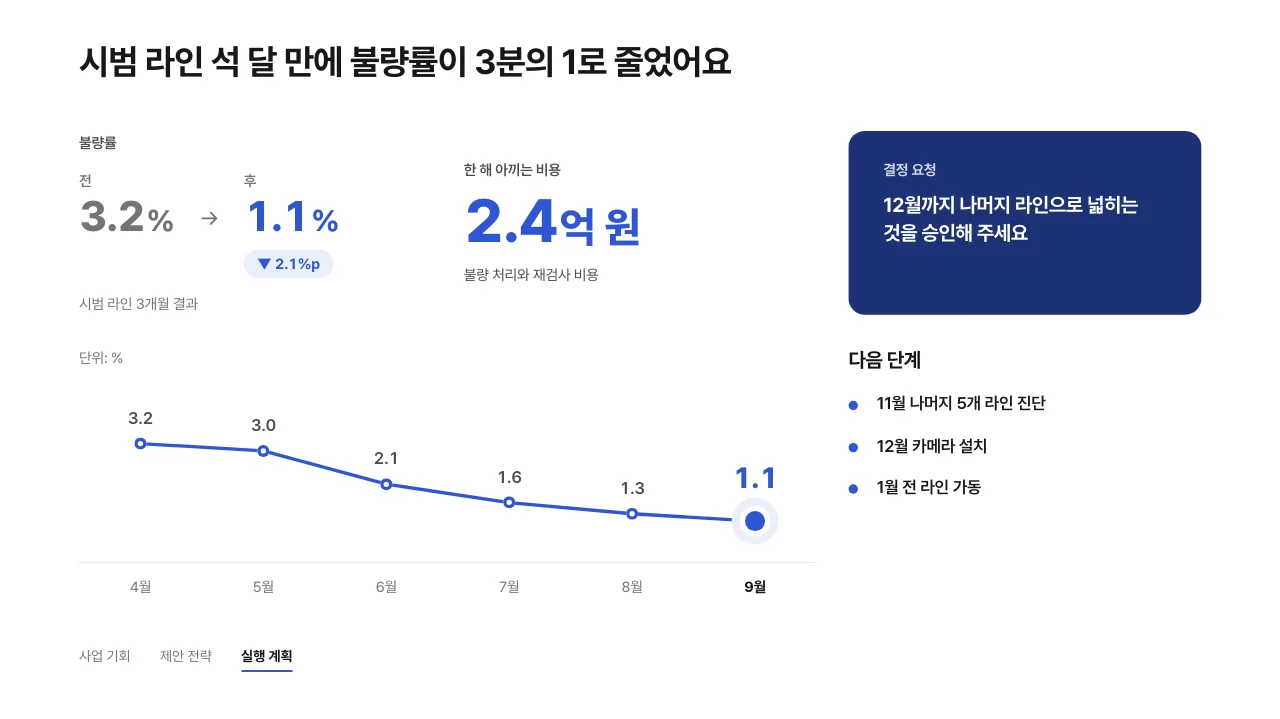
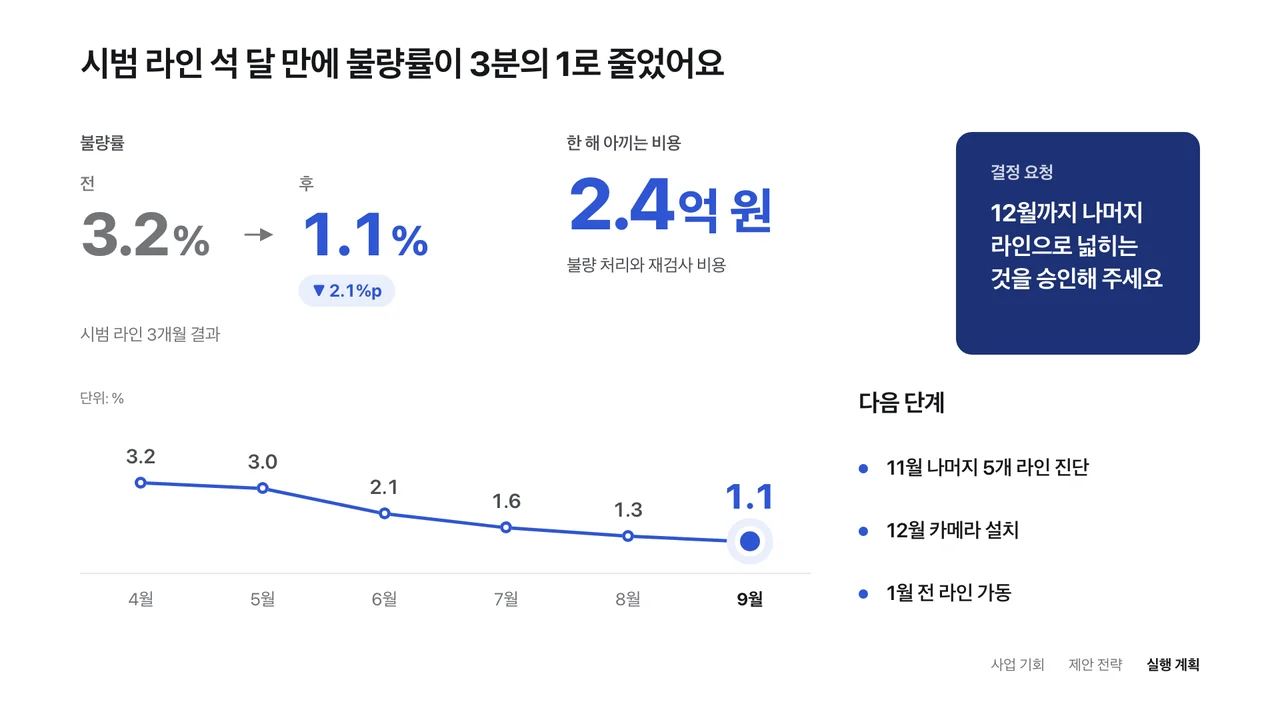
fix: 홍보 페이지의 꾸미기 설명이 예전 줄 방식이던 것
컴포넌트 장이 12×12칸 판으로 바뀌었는데, '장을 직접 꾸밀 수도 있어요'는
그림 위에 세로 줄 열두 개를 긋고 "정해진 칸에 맞춰 붙어요", "여러 단으로
나눠 담아요"라고 줄과 칸으로 짜던 때를 말하고 있었다. 그림도 예전 짜임으로
그린 것이라 다음 단계 아래가 비어 있었다.

- 그림을 지금 앱으로 다시 그렸다(장 모음의 같은 예시 장, 빈 곳 없이 판을 덮는다).
- 세로 줄 대신 편집기가 끌 때 보여 주는 판의 점을 같은 계산으로 다시 그렸다.
  본문 상자 위에만, 칸 사이마다 점 하나, 고르기 색 55%. 편집기처럼 면이 있는
  결정 요청 위에는 찍지 않는다. 그림 너비에 맞춰 cqw로 줄인다.
- 설명은 판에 붙는 것, 옆은 너비를 위아래는 높이를 나누는 것, 잘림과 빈 곳이
  없게 판이 크기를 정하는 것, 사이의 선으로 크기를 주고받는 것, 자리가
  모자라면 까닭을 알리는 것을 세 문장으로 줄였다.

Claude-Session: https://claude.ai/code/session_01WYCmhNDHMyg9SdyxiMGoEV

diff --git a/site/style.css b/site/style.css
@@ -17,6 +17,8 @@
   --deep: #1d3175;
   /* 앱의 짙은 단추 */
   --button: #191c22;
+  /* 앱 편집기의 고르기 색 (src/styles/base.css). 판의 점에만 쓴다 */
+  --sel: #3a6ff8;
 
   --maxw: 1200px;
   --gutter: clamp(16px, 4vw, 40px);
@@ -579,6 +581,8 @@ h3 {
 .grid-frame {
   position: relative;
   overflow: hidden;
+  /* 판의 점을 그림 너비에 맞춰 줄이려고 (.board의 cqw) */
+  container-type: inline-size;
   border-radius: 6px;
   box-shadow: 0 0 0 1px rgb(22 23 26 / 0.1);
 }
@@ -587,24 +591,31 @@ h3 {
   width: 100%;
 }
 
-/* 장의 12칸 격자: 좌우 120px 안쪽, 칸 사이 48px (1920 기준). 본문 상자 높이만큼 */
-.grid-cols {
+/* 컴포넌트 장의 판: 편집기가 끌 때 보여 주는 점(src/slides/edit.css의 .bk-board)을 같은 계산으로 다시 그린다.
+   판은 본문 상자(1920×1080 장에서 왼쪽 120, 위 198.4, 1680×715.6)를 가로세로 12칸으로 나누고,
+   칸 사이(가로 72, 세로 48)의 가운데마다 점을 찍는다. 오른쪽 끝과 아래 끝의 점은 판 밖이라 편집기처럼 그리지 않는다.
+   --k는 장의 1px이 그림에서 몇 px인지 */
+.board {
+  --k: calc(100cqw / 1920);
+  --col-gap: calc(var(--k) * 72);
+  --row-gap: calc(var(--k) * 48);
   position: absolute;
-  top: 18.37%;
-  right: 6.25%;
-  left: 6.25%;
-  display: grid;
-  grid-template-columns: repeat(12, minmax(0, 1fr));
-  column-gap: 2.857%;
-  height: 64.31%;
+  top: calc(var(--k) * 198.4);
+  left: calc(var(--k) * 120);
+  width: calc(var(--k) * 1680);
+  height: calc(var(--k) * 715.6);
+  /* 점 크기: 편집기는 화면에서 3px. 그림이 작아지는 폰에서는 줄인다 */
+  --dot: clamp(1.5px, calc(var(--k) * 7.5), 3px);
+  background-image: radial-gradient(circle at calc(100% - var(--col-gap) / 2) calc(100% - var(--row-gap) / 2), color-mix(in srgb, var(--sel) 55%, transparent) 0 var(--dot), transparent calc(var(--dot) + 0.5px));
+  background-size: calc((100% + var(--col-gap)) / 12) calc((100% + var(--row-gap)) / 12);
+  /* 편집기에서는 컴포넌트가 점 위에 그려져서 면이 있는 컴포넌트(이 그림의 결정 요청, 가로 9~12칸, 세로 0~6칸)는 점을 가린다.
+     그 자리만 비운다: 왼쪽 (1752 × 9/12) ÷ 1680, 높이 (763.6 × 6/12 − 48) ÷ 715.6 */
+  mask-image: linear-gradient(#000 0 0), linear-gradient(#000 0 0);
+  mask-size: 100% 100%, 21.79% 46.65%;
+  mask-position: 0 0, 100% 0;
+  mask-repeat: no-repeat;
+  mask-composite: exclude;
   pointer-events: none;
-}
-
-.grid-cols i {
-  background: rgb(47 85 212 / 0.06);
-  box-shadow:
-    inset 1px 0 rgb(47 85 212 / 0.24),
-    inset -1px 0 rgb(47 85 212 / 0.24);
 }
 
 .compose-text p {

diff --git a/site/index.html b/site/index.html
@@ -181,14 +181,14 @@
         <div class="compose">
           <figure class="grid-shot">
             <div class="grid-frame">
-              <img src="images/compose.webp" width="1280" height="719" loading="lazy" alt="컴포넌트로 꾸민 장. 위 줄에 불량률 전과 후, 한 해 아끼는 비용, 결정 요청이, 아래 줄에 추이 차트와 다음 단계 목록이 칸에 맞춰 놓여 있어요.">
-              <div class="grid-cols" aria-hidden="true"><i></i><i></i><i></i><i></i><i></i><i></i><i></i><i></i><i></i><i></i><i></i><i></i></div>
+              <img src="images/compose.webp" width="1280" height="720" loading="lazy" alt="컴포넌트로 꾸민 장. 위에 불량률 전과 후, 한 해 아끼는 비용, 결정 요청이, 아래에 추이 차트와 다음 단계 목록이 판의 칸에 맞춰 빈틈없이 놓여 있어요.">
+              <div class="board" aria-hidden="true"></div>
             </div>
-            <figcaption>파란 줄이 컴포넌트가 붙는 열두 칸이에요.</figcaption>
+            <figcaption>판은 가로세로 열두 칸이에요. 점은 칸 사이마다 찍혀 있고, 컴포넌트는 이 칸에 맞춰 붙어요.</figcaption>
           </figure>
           <div class="compose-text">
             <h3>장을 직접 꾸밀 수도 있어요</h3>
-            <p>큰 숫자, 전과 후, 차트, 일정, 비교 같은 컴포넌트를 장 위로 끌어다 놓으면 정해진 칸에 맞춰 붙어요. 너비를 바꿔도 줄과 간격이 어긋나지 않고, 칸이 좁아지면 글자를 줄이는 대신 여러 단으로 나눠 담아요.</p>
+            <p>큰 숫자, 전과 후, 차트 같은 컴포넌트를 끌어다 놓으면 가로세로 열두 칸의 판에 맞춰 붙어요. 옆에 놓으면 너비를, 위나 아래에 놓으면 높이를 나누고, 글이 잘리거나 빈 곳이 남지 않게 판이 크기를 정해요. 사이의 선을 끌어 크기를 주고받을 수 있고, 자리가 모자라면 억지로 넣지 않고 까닭을 알려 줘요.</p>
           </div>
         </div>
 
